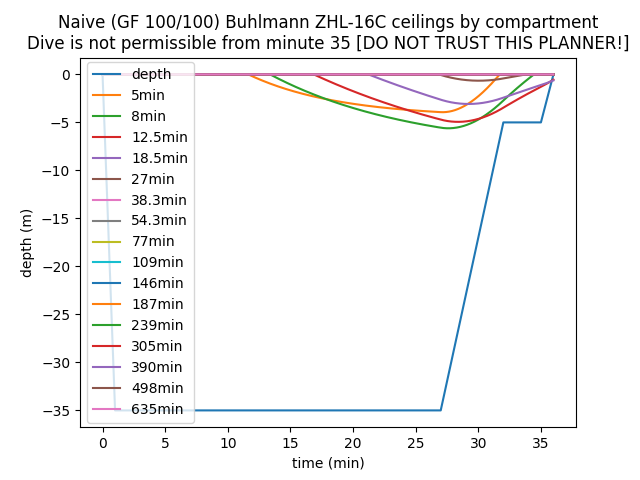
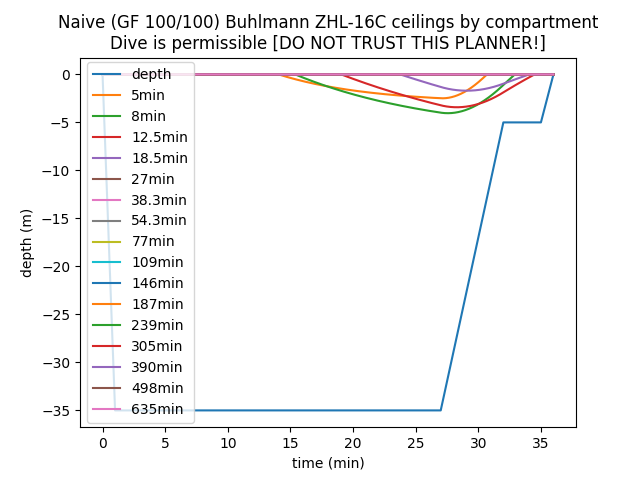
first attempt at gf, looks messy

Changed region(s): [[0.0312, 0.0625, 1.0, 0.125], [0.4062, 0.1562, 0.875, 0.2812]]

diff --git a/deco.py b/deco.py
@@ -124,13 +124,30 @@ class BuhlmannCompartmentState:
         # this is the main algo
         self.ppn2 = prev_ppn2 + (inhaled_ppn2 - prev_ppn2) * (1 - 2 ** (-(time_spent / 60) / compartment.half_time_min))
 
-    def calculate_ceiling(self, ppn2, surfacing_m_value, m_value_slope):
-        # surfacing_m_value_ppn2 = (surfacing_m_value/10 - 1) * NITROGEN
-        equiv_depth = (ppn2 / NITROGEN - 1) * 10
-        if equiv_depth < surfacing_m_value:
+    def calculate_ceiling(self, ppn2, surfacing_m_value, m_value_slope, gf=100):
+        gf_prop = gf/100
+        equiv_depth = (ppn2 / NITROGEN - 1) * 10  # depth at which you would be in equilibrium. this is the y-axis
+        adjusted_m_value_slope = m_value_slope*(gf_prop) + (1-gf_prop)  # weighted average of M-value slope and equilibrium
+
+        """
+        line for m-value is:
+        equiv_depth = slope * depth + surfacing_m_value
+        adjusted, this is
+        equiv_depth = gf_slope * depth + gf_surfacing_m_value
+
+        given equiv_depth, need depth
+        depth = (equiv_depth - gf_surfacing_m_value)/gf_slope
+
+        adjusted slope is the weighted average of 1 and original slope, gf=1 gives original slope
+        adjusted surfacing m_value is ??? weighted average of 0  and original surfacing m_value, gf=1 gives original
+        # TODO redo all the maths here one more time!
+        """
+
+        ceiling = (equiv_depth - surfacing_m_value*gf_prop) / adjusted_m_value_slope
+        if ceiling<0:
             return 0
         else:
-            return (equiv_depth - surfacing_m_value) / m_value_slope  # TODO is it times or divide? times is more conservative
+            return ceiling
 
     def __repr__(self) -> str:
         return "halftime is " + str(self.compartment) + " ppN2 is " + str(self.ppn2)
@@ -165,6 +182,7 @@ class BuhlmannState(Sequence):
 class Buhlmann_Z16C(DiveAlgorithm):
     def __init__(self) -> None:
         # TODO number needs to be sequential and I hate this
+        # TODO confirm if these are correct in any way
         self.compartments = [
             BuhlmannCompartment(number=0,surfacing_m_value=29.65704, m_value_slope = 1.7928,half_time_min=5),
             BuhlmannCompartment(number=1,surfacing_m_value=25.35936, m_value_slope = 1.5352,half_time_min=8),
